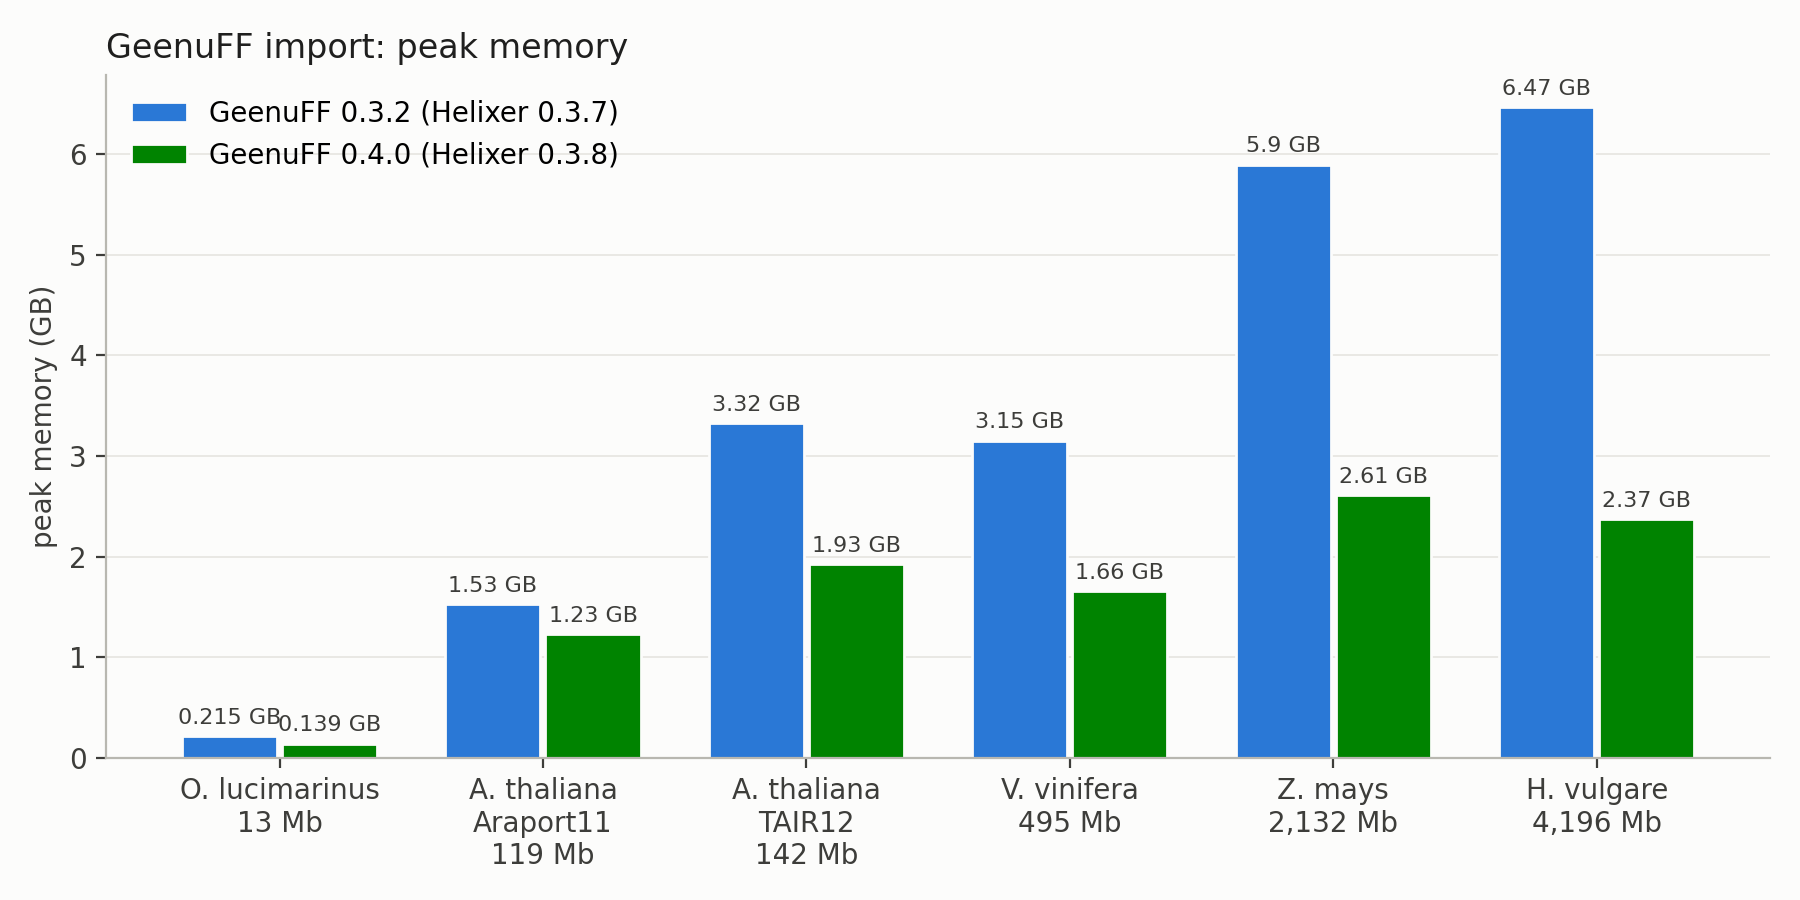
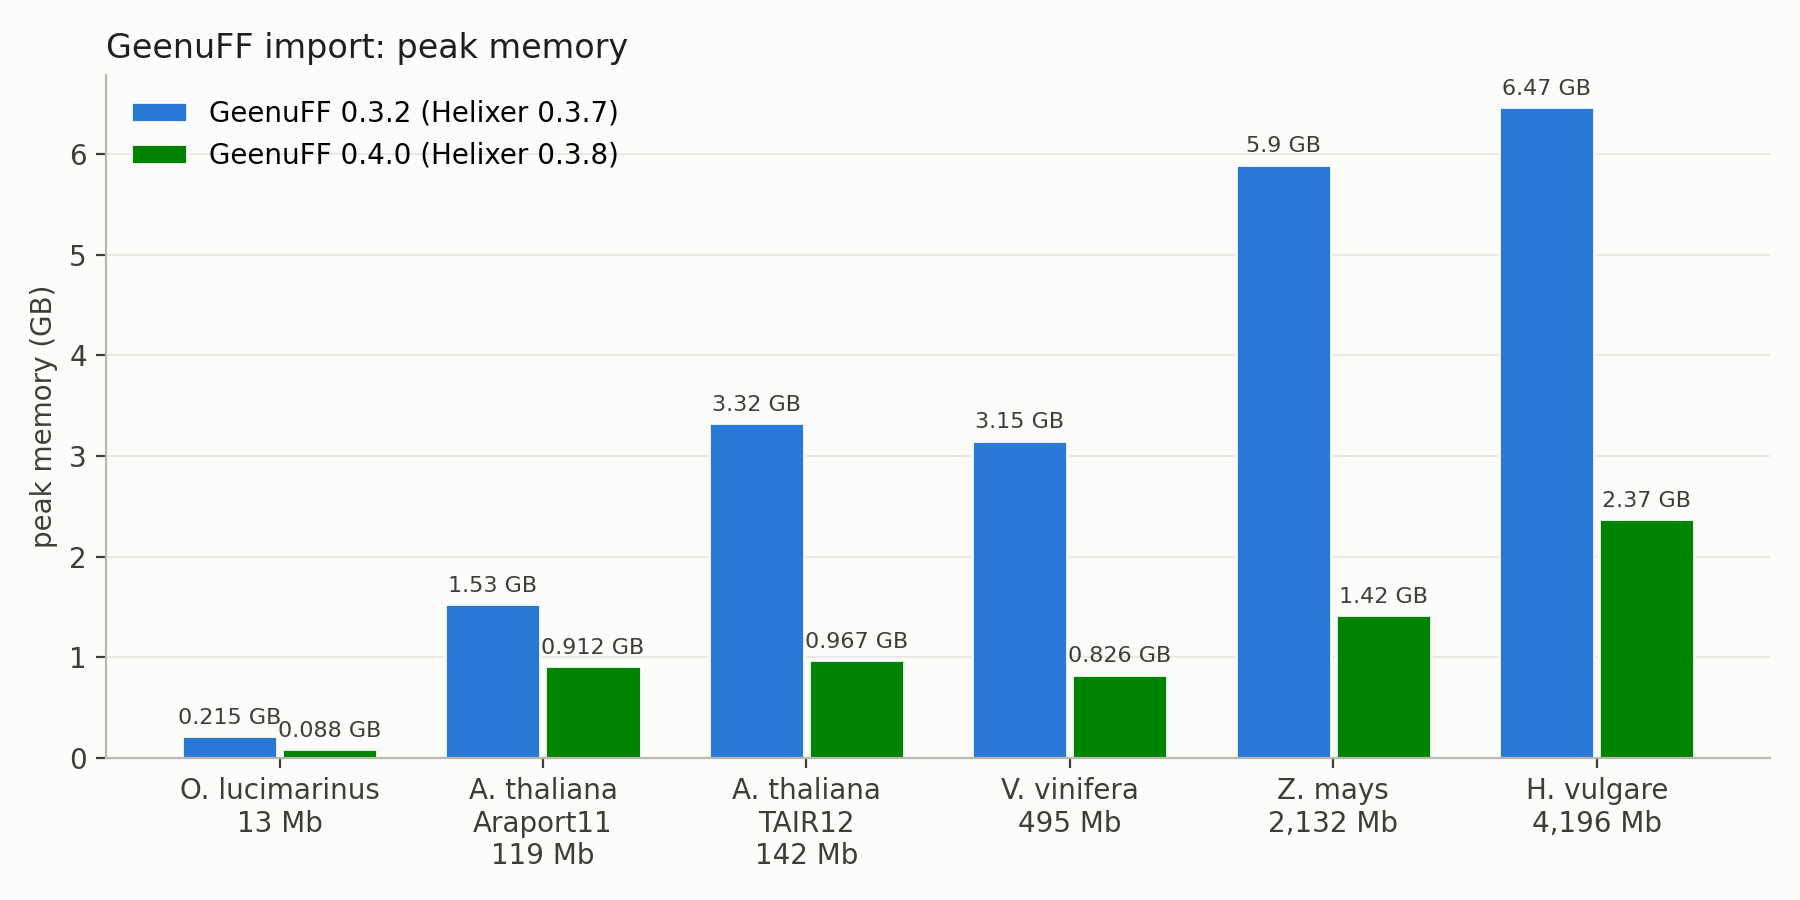
GFFObject keeps only ID and Parent parsed (attributes parsed on access, __slots__), OrganizedGFFEntries takes the line class; filter_longest_transcripts.py drops the attribute column and holds one sequence copy; update performance.md: import peak memory down 26-50%

diff --git a/scripts/filter_longest_transcripts.py b/scripts/filter_longest_transcripts.py
@@ -24,7 +24,6 @@ from dataclasses import dataclass, field
 from geenuff.applications.import_summary import DROPPED_LINE_REASONS
 from geenuff.applications.importer import (GENE_TYPES, PIECE_KEYS, TRANSCRIPT_TYPES, FastaImporter,
                                            MissingGeneLines, OrganizedGeenuffImporterGroup, OrganizedGFFEntries)
-from geenuff.base import orm
 from geenuff.base.helpers import (Compression, NonMatchableIDs, add_output_compression_args, check_output_paths,
                                   insert_before_extension, match_seqids, merge_gff_spans, open_out, output_compression,
                                   output_path, require_fasta_and_gff, require_input_files, setup_logging,
@@ -68,6 +67,30 @@ class Selection:
     stop_codon_in_utr: list[str] = field(default_factory=list)
 
 
+class LineIds(GFFObject):
+    """A GFF3 line as the import's grouping reads it, without its attribute column once its ID and parents
+    are parsed: the kept lines are written from the file itself, so no other attribute is needed, and the
+    attribute columns are often most of a file."""
+    __slots__ = ()
+
+    def __init__(self, gffline: str):
+        super().__init__(gffline)
+        self.attribute = None
+
+
+class Sequence:
+    """One FASTA sequence, read as the import's stop codon functions read an orm.Coordinate (length,
+    sequence_range), without the copy of the sequence a Coordinate keeps in chunks."""
+    __slots__ = ('sequence', 'length')
+
+    def __init__(self, sequence: str):
+        self.sequence, self.length = sequence, len(sequence)
+
+    def sequence_range(self, start: int, end: int) -> str:
+        """sequence[start:end], start clipped to 0, as orm.Coordinate.sequence_range."""
+        return self.sequence[max(start, 0):end]
+
+
 def coding_length(cds: list[GFFObject], exons: list[GFFObject]) -> int:
     """Bases from the first to the last CDS line that lie in the exons: the spliced CDS length the import
     picks the longest transcript by (OrganizedGeenuffImporterGroup._coding_length), here from the GFF
@@ -77,7 +100,7 @@ def coding_length(cds: list[GFFObject], exons: list[GFFObject]) -> int:
                for e_start, e_end in merge_gff_spans((e.start, e.end) for e in exons))
 
 
-def add_stop_codon(t: GFFObject, entries: dict, is_plus_strand: bool, coord: orm.Coordinate) -> int | None:
+def add_stop_codon(t: GFFObject, entries: dict, is_plus_strand: bool, coord: Sequence) -> int | None:
     """Adds a missing stop codon to a transcript's lines in place, as the import adds it (see
     OrganizedGeenuffImporterGroup.add_missing_stop_codon).
 
@@ -130,10 +153,9 @@ def record_stop_codon(t_id: str, old_cds: list[GFFObject], old_exons: list[GFFOb
                                              for i, line in enumerate(in_reading_order)]
 
 
-def sequences(fasta_path: str, gff_path: str, seqids: set[str]) -> Iterator[tuple[str, orm.Coordinate]]:
-    """Yields (GFF sequence ID, Coordinate holding its sequence) for the given GFF sequence IDs, one
-    FASTA sequence at a time, paired with the FASTA IDs as the import pairs them (see
-    helpers.match_seqids).
+def sequences(fasta_path: str, gff_path: str, seqids: set[str]) -> Iterator[tuple[str, Sequence]]:
+    """Yields (GFF sequence ID, its sequence) for the given GFF sequence IDs, one FASTA sequence at a
+    time, paired with the FASTA IDs as the import pairs them (see helpers.match_seqids).
 
     Raises:
         SystemExit: where a GFF sequence ID matches no FASTA sequence or several
@@ -145,7 +167,7 @@ def sequences(fasta_path: str, gff_path: str, seqids: set[str]) -> Iterator[tupl
     gff_ids = {fasta_id: gff_id for gff_id, fasta_id in pairs.items() if gff_id in seqids}
     for fasta_id, sequence in FastaImporter.parse_fasta(fasta_path):
         if fasta_id in gff_ids:
-            yield gff_ids[fasta_id], orm.Coordinate(sequence=sequence, length=len(sequence), seqid=fasta_id)
+            yield gff_ids[fasta_id], Sequence(sequence)
 
 
 def longest_transcripts(gff_path: str, fasta_path: str | None) -> Selection:
@@ -154,7 +176,7 @@ def longest_transcripts(gff_path: str, fasta_path: str | None) -> Selection:
     Raises:
         SystemExit: where coding transcripts name no Parent gene (see importer.MissingGeneLines)
     """
-    organizer = OrganizedGFFEntries(gff_path)
+    organizer = OrganizedGFFEntries(gff_path, entry_class=LineIds)
     try:
         organizer.load_organized_entries()
     except MissingGeneLines as e:
@@ -170,11 +192,12 @@ def longest_transcripts(gff_path: str, fasta_path: str | None) -> Selection:
     # with a FASTA file, the genes are handled sequence by sequence alongside it, one sequence in memory
     # at a time; without one, no sequence is needed
     coords = (sequences(fasta_path, gff_path, set(entries)) if fasta_path
-              else ((seqid, None) for seqid in entries))
+              else ((seqid, None) for seqid in list(entries)))
     selection = Selection()
     outcomes = selection.outcomes
     for seqid, coord in coords:
-        for group in entries[seqid]:
+        # the genes of a sequence are released once handled
+        for group in entries.pop(seqid):
             gene = group['super_locus']
             # transcripts made for CDS lines without a transcript line are no transcripts of the file
             # (side effect of using the importer's functions, floating CDS get treated by it)

diff --git a/geenuff/parsing/gffhelper.py b/geenuff/parsing/gffhelper.py
@@ -31,8 +31,10 @@ class GFFParser:
 
 
 class GFFObject:
-    """One feature line of a GFF3 file: its first 9 columns as stripped strings, the 9th also parsed
-    into attributes (see parse_attributes).
+    """One feature line of a GFF3 file: its first 9 columns as stripped strings. Of the 9th, only the ID
+    and the parents are kept parsed (get_ID, get_Parent); attributes parses the whole column on each
+    access. A genome's lines are held by the hundreds of thousands, and the other attributes, often
+    most of a line, are rarely read.
 
     Sources: http://www.ensembl.org/info/website/upload/gff.html (caution, unsecure link) and
             https://github.com/The-Sequence-Ontology/Specifications/blob/master/gff3.md
@@ -94,11 +96,21 @@ class GFFObject:
             Parent, the Alias, Note, DBxref and Ontology_term attributes can have multiple values.
             There can be a variety of custom lowercase attributes."""
 
+    __slots__ = ('seqid', 'source', 'type', 'start', 'end', 'score', 'strand', 'phase', 'attribute', '_id',
+                 '_parents')
+
     def __init__(self, gffline: str):
         columns = [column.strip() for column in gffline.split('\t')[:9]]
         (self.seqid, self.source, self.type, self.start, self.end, self.score, self.strand, self.phase,
          self.attribute) = columns
-        self.attributes = GFFObject.parse_attributes(self.attribute)
+        attributes = GFFObject.parse_attributes(self.attribute)
+        self._id = attributes.get('ID')
+        self._parents = GFFObject.parents(attributes) or None
+
+    @property
+    def attributes(self) -> dict[str, str]:
+        """The attribute column parsed (see parse_attributes), anew on each access."""
+        return GFFObject.parse_attributes(self.attribute)
 
     @staticmethod
     def parse_attributes(column: str) -> dict[str, str]:
@@ -128,12 +140,12 @@ class GFFObject:
         return ';'.join(pairs + [f'Parent={",".join(parents)}'])
 
     def get_ID(self) -> str | None:
-        return self.attributes.get('ID')
+        return self._id
 
     def get_Parent(self) -> list[str] | None:
         """The line's parents (see parents), None where there are none."""
-        return GFFObject.parents(self.attributes) or None
+        return self._parents
 
     def __repr__(self) -> str:
         return (f'{self.seqid},{self.source},{self.type},{self.start},{self.end},{self.score},{self.strand},'
-                f'{self.phase},{self.attributes}')
+                f'{self.phase},{self.attribute}')

diff --git a/geenuff/applications/importer.py b/geenuff/applications/importer.py
@@ -650,12 +650,15 @@ class OrganizedGFFEntries(object):
     together with every line below them.
     """
 
-    def __init__(self, gff_file, stats=None):
+    def __init__(self, gff_file, stats=None, entry_class=gffhelper.GFFObject):
         self.gff_file = gff_file
         self.organized_entries = {}
         # only present when constructed as part of a full ImportController.add_gff() run;
         # standalone/test use (no controller) gets its own throwaway counter
         self.stats = stats if stats is not None else ImportStatistics()
+        # the class each line of the file is read into, a GFFObject or a subclass of it
+        # i.e. LineIDs form filter_longest_transcript.py
+        self.entry_class = entry_class
 
     def load_organized_entries(self):
         genes, transcripts, pieces = [], [], []
@@ -911,7 +914,7 @@ class OrganizedGFFEntries(object):
     def _gff_gen(self):
         for line in gffhelper.GFFParser.feature_lines(self.gff_file):
             self.stats.gff_lines_read += 1
-            entry = gffhelper.GFFObject(gffline=line)
+            entry = self.entry_class(gffline=line)  # GFFObject or LineIDs form filter_longest_transcript.py
             if entry.type not in KNOWN_TYPES:
                 # an unrecognized Sequence Ontology term shouldn't take down the whole
                 # import; skip just this line and keep going

diff --git a/docs/performance.md b/docs/performance.md
@@ -1,6 +1,6 @@
 # Import speed, memory and masking: GeenuFF 0.4.0 against 0.3.2
 
-GeenuFF 0.4.0 imports a genome 2.0 to 3.7 times faster than GeenuFF 0.3.2 and needs 1.2 to 2.7
+GeenuFF 0.4.0 imports a genome 1.8 to 3.7 times faster than GeenuFF 0.3.2 and needs 1.7 to 4.2
 times less memory. It masks genes with errors of their own on the gene, where 0.3.2 mostly masked
 only beside them, and masks far fewer intergenic bases.
 
@@ -59,19 +59,21 @@ organelle genomes and unplaced scaffolds; renaming found nothing to change in an
 
 | species                 | 0.3.2: s, GB | 0.4.0: s, GB | faster | less memory |
 |-------------------------|--------------|--------------|--------|-------------|
-| *O. lucimarinus*        | 6.9, 0.22    | 3.5, 0.14    | 2.0x   | 1.5x        |
-| *A. thaliana* Araport11 | 98.5, 1.53   | 40.0, 1.23   | 2.5x   | 1.2x        |
-| *A. thaliana* TAIR12    | 131.6, 3.32  | 36.0, 1.93   | 3.7x   | 1.7x        |
-| *V. vinifera*           | 112.1, 3.15  | 41.8, 1.66   | 2.7x   | 1.9x        |
-| *Z. mays*               | 195.6, 5.90  | 74.6, 2.61   | 2.6x   | 2.3x        |
-| *H. vulgare*            | 152.5, 6.47  | 73.3, 2.37   | 2.1x   | 2.7x        |
+| *O. lucimarinus*        | 6.9, 0.22    | 3.9, 0.09    | 1.8x   | 2.4x        |
+| *A. thaliana* Araport11 | 98.5, 1.53   | 41.6, 0.91   | 2.4x   | 1.7x        |
+| *A. thaliana* TAIR12    | 131.6, 3.32  | 35.9, 0.97   | 3.7x   | 3.4x        |
+| *V. vinifera*           | 112.1, 3.15  | 42.2, 0.83   | 2.7x   | 3.8x        |
+| *Z. mays*               | 195.6, 5.90  | 76.1, 1.42   | 2.6x   | 4.2x        |
+| *H. vulgare*            | 152.5, 6.47  | 71.8, 2.37   | 2.1x   | 2.7x        |
 
 Import time follows the number of GFF3 lines more than the genome size. Memory grows much less with
 the genome than before, as 0.4.0 writes the sequences to the database piece by piece instead of
-holding the whole genome.
+holding the whole genome, and keeps of each GFF3 line's attributes only the ID and the parents. Its
+peak follows the GFF3 lines, unless the largest sequence is larger, as in *H. vulgare* (chromosomes up
+to 666 Mb).
 
 Very large chromosomes: *Pinus massoniana* (21.9 Gb, largest chromosome 2.4 Gb) imports with 0.4.0
-in 270 s at 8.0 GB. GeenuFF 0.3.2 cannot import it: it stops on any chromosome over 2.1 Gb
+in 251 s at 8.0 GB. GeenuFF 0.3.2 cannot import it: it stops on any chromosome over 2.1 Gb
 (`OverflowError: string longer than INT_MAX bytes`), as it stores each sequence as one piece
 (Python's SQLite interface only works on up to 2^31 - 1 bytes).
 
